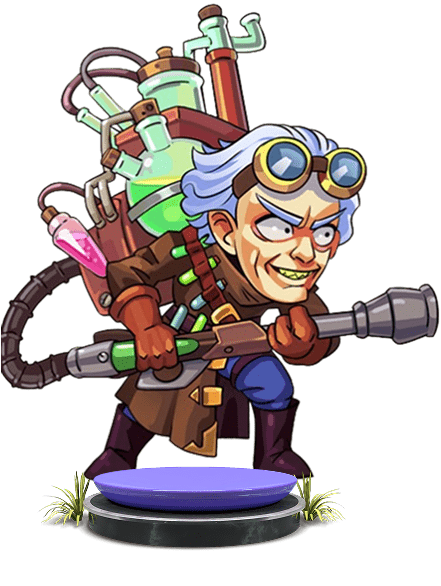
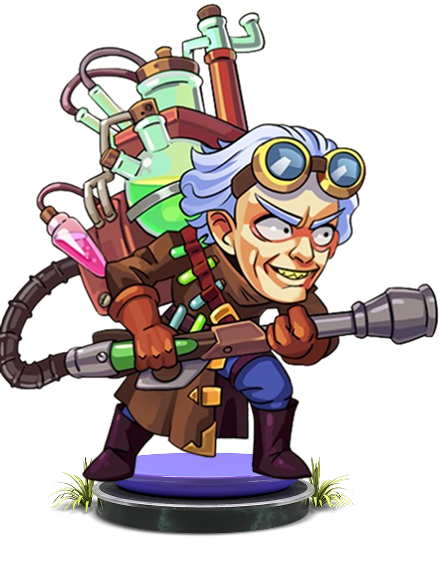
img

diff --git a/src/scss/characters.scss b/src/scss/characters.scss
@@ -68,6 +68,12 @@
     height: 400px;
   }
 }
+
+.characters-item:hover .characters-img {
+  filter: drop-shadow(0 0 10px #6d12d8) drop-shadow(0 0 20px #6d12d8);
+  transition: filter 0.3s ease;
+}
+
 .characters-text-container {
   display: flex;
   flex-direction: column;
